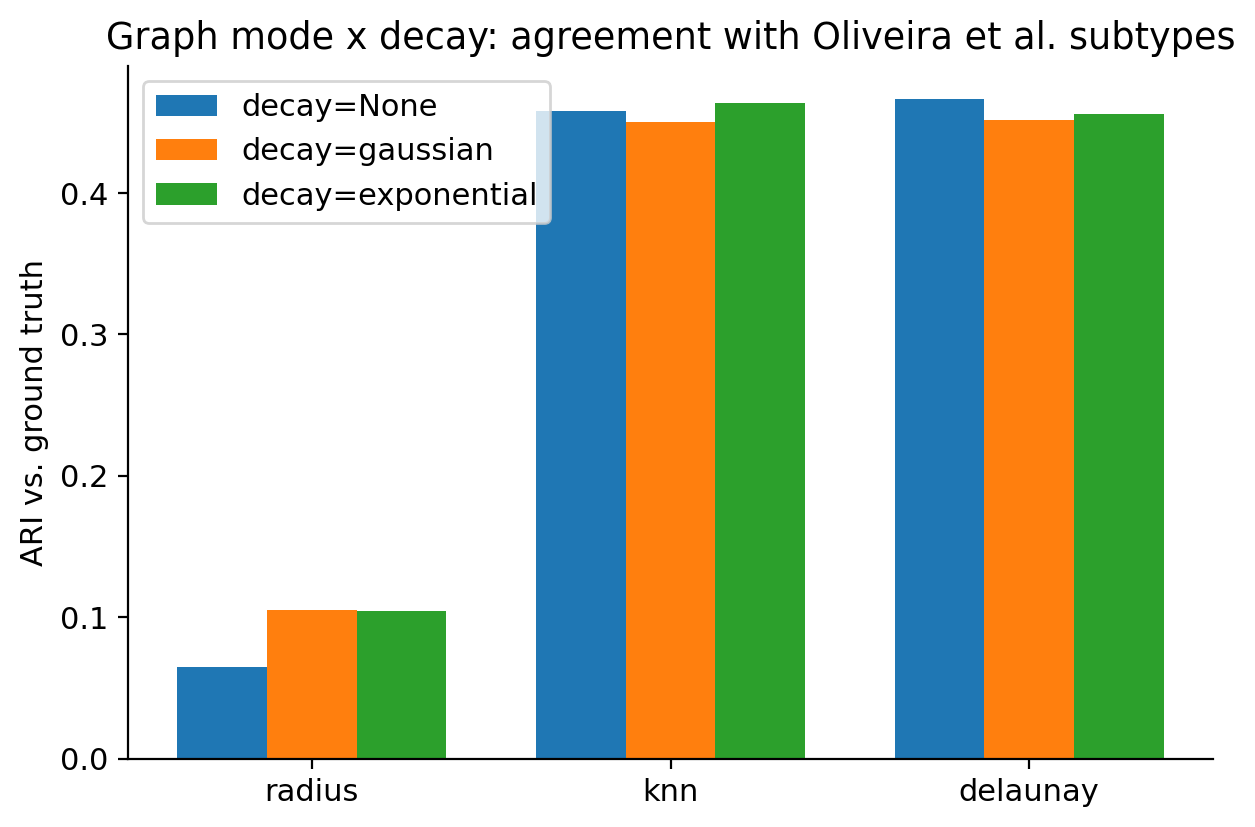
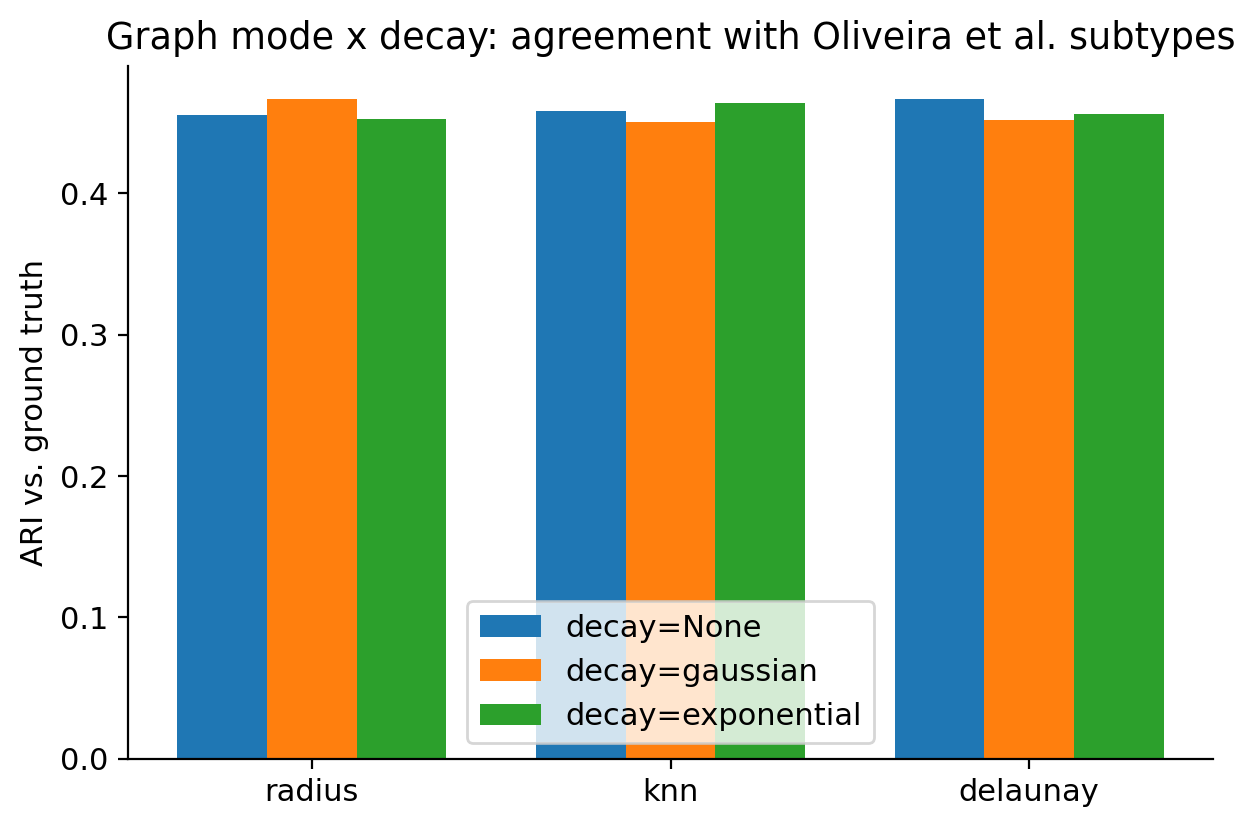
radius default adj

Changed region(s): [[0.0932, 0.0907, 0.7147, 0.9069]]

diff --git a/spatialsubtypes/graph.py b/spatialsubtypes/graph.py
@@ -17,10 +17,10 @@ from scipy.spatial import Delaunay
 def build_spatial_graph(
     adata: AnnData,
     spatial_key: str = "spatial",
-    mode: str = "radius",
-    radius: float | None = 50.0,
+    mode: str = "delaunay", 
+    radius: float | None = None,
     n_neighbors: int = 6,
-    decay: str | None = "gaussian",
+    decay: str | None = None,
     decay_scale: float | None = None,
     include_self: bool = False,
     key_added: str = "spatial",

diff --git a/results/methods/mode_x_decay.py b/results/methods/mode_x_decay.py
@@ -22,7 +22,7 @@ from results.shared import (
 
 MODES = ["radius", "knn", "delaunay"]
 DECAYS = [None, "gaussian", "exponential"]
-RADIUS = 50.0
+RADIUS = 15.0
 N_NEIGHBORS = 6
 LAM = 0.3
 RESOLUTION = 1.0
